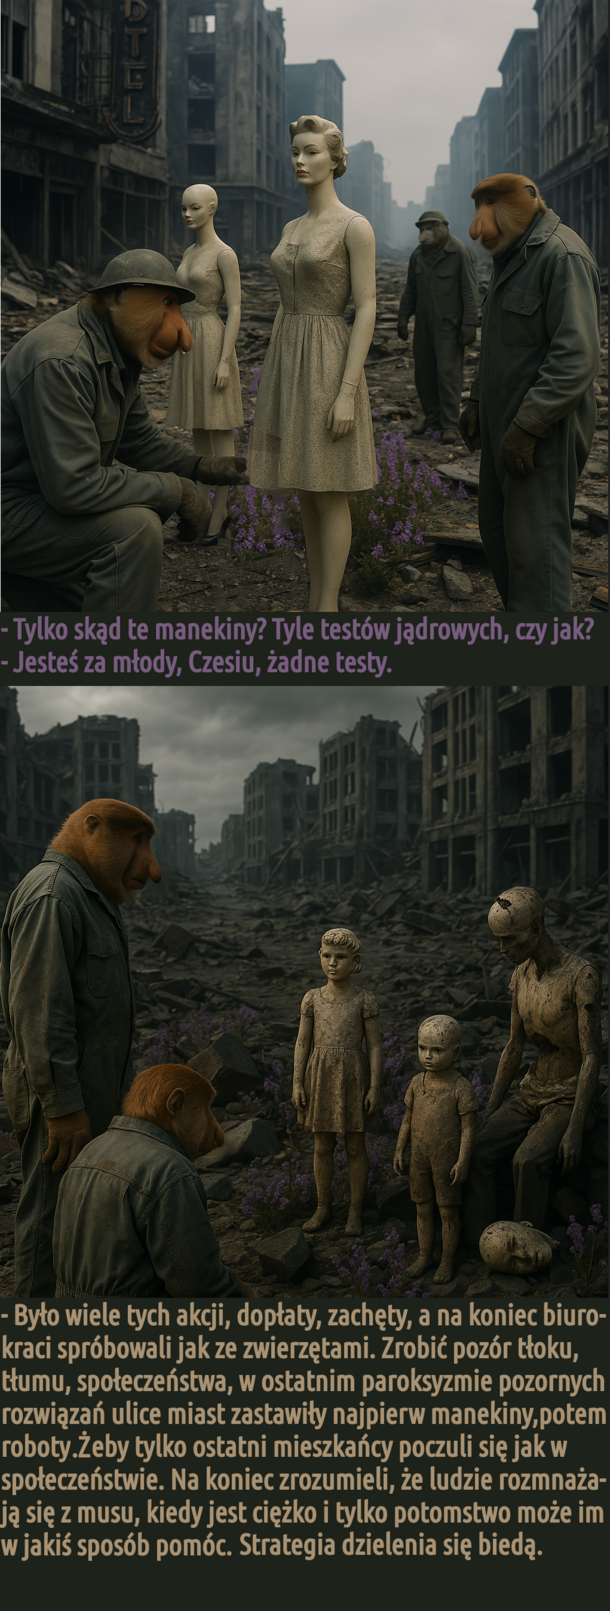
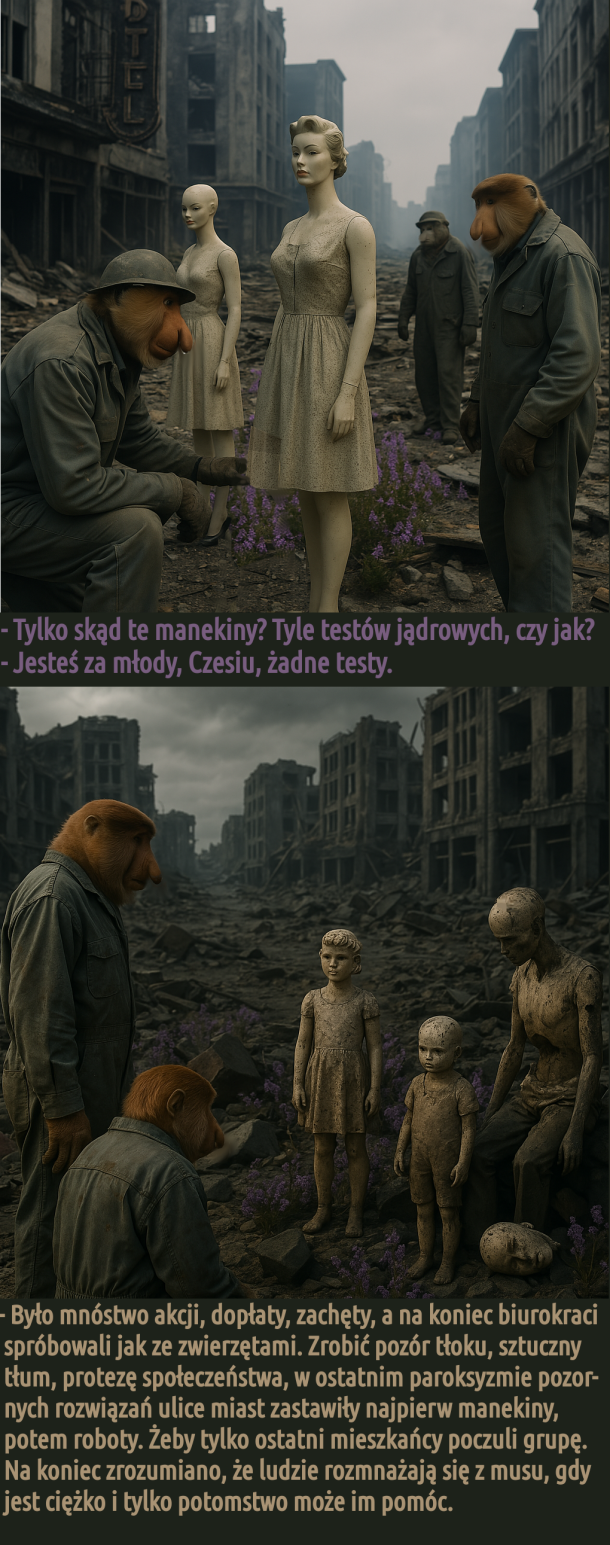
poprawki

diff --git a/index.html b/index.html
@@ -700,7 +700,7 @@ https://jbzd.com.pl/obr/4674744/maupy-apokalipsy-czyli-polska-postapo-odc-10115-
   </header>
   <input type="checkbox" class="expand-toggle" id="expand-9">
   <figure class="panel-figure">
-    <img src="img/zlosliwydzin.jpg" alt="zlosliwydzin.jpg" loading="lazy">
+    <img src="img/zlosliwydzin2.png" alt="zlosliwydzin" loading="lazy">
     <figcaption class="visually-hidden">Maupy Apokalipsy czyli Polska Postapo odc 15248, Złośliwy dżin </figcaption>
   </figure>
   <label for="expand-9" class="expand-label">kliknij, żeby rozwinąć</label>
@@ -863,7 +863,7 @@ https://jbzd.com.pl/obr/4674744/maupy-apokalipsy-czyli-polska-postapo-odc-10115-
   </header>
   <input type="checkbox" class="expand-toggle" id="expand-19">
   <figure class="panel-figure">
-    <img src="img/dopłatydoschronów.png" alt="dopłatydoschronów.png" loading="lazy">
+    <img src="img/dopłatydoschronów2.png" alt="dopłatydoschronów" loading="lazy">
     <figcaption class="visually-hidden">Maupy Apokalipsy czyli Polska Postapo odc 15231, Odbudujemy jeszcze lepsze</figcaption>
   </figure>
   <label for="expand-19" class="expand-label">kliknij, żeby rozwinąć</label>
